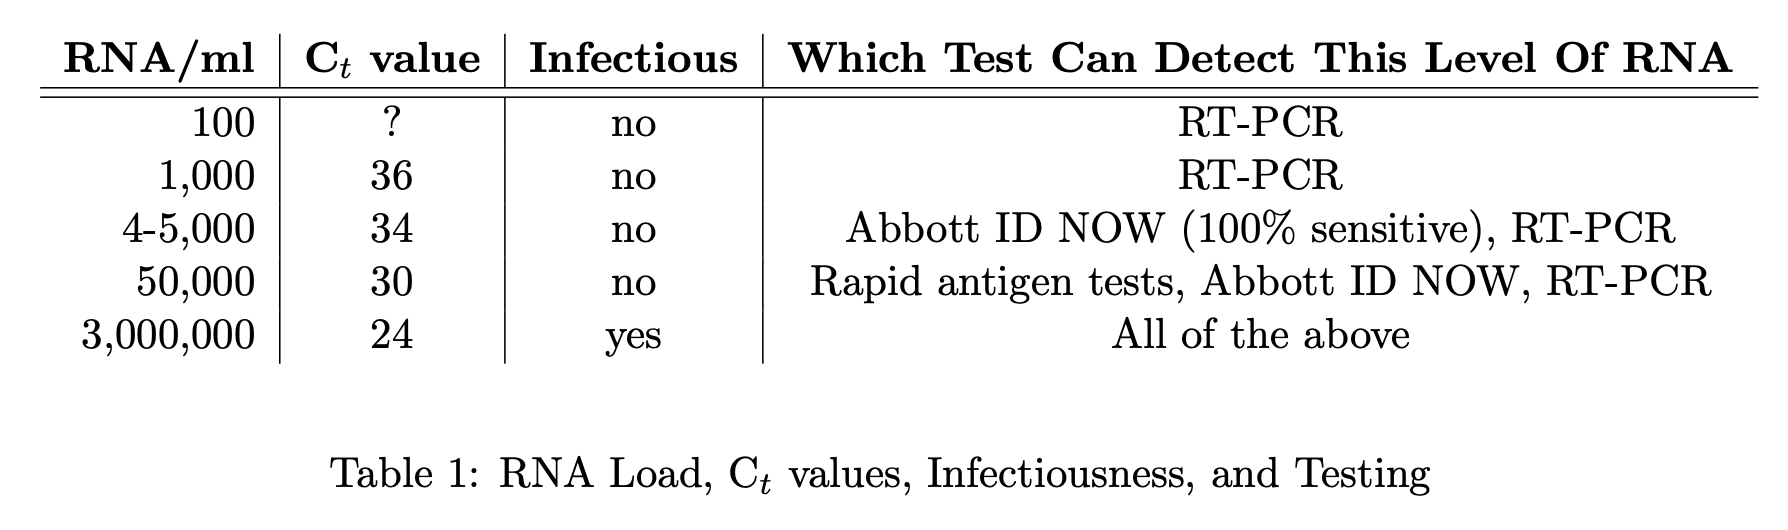
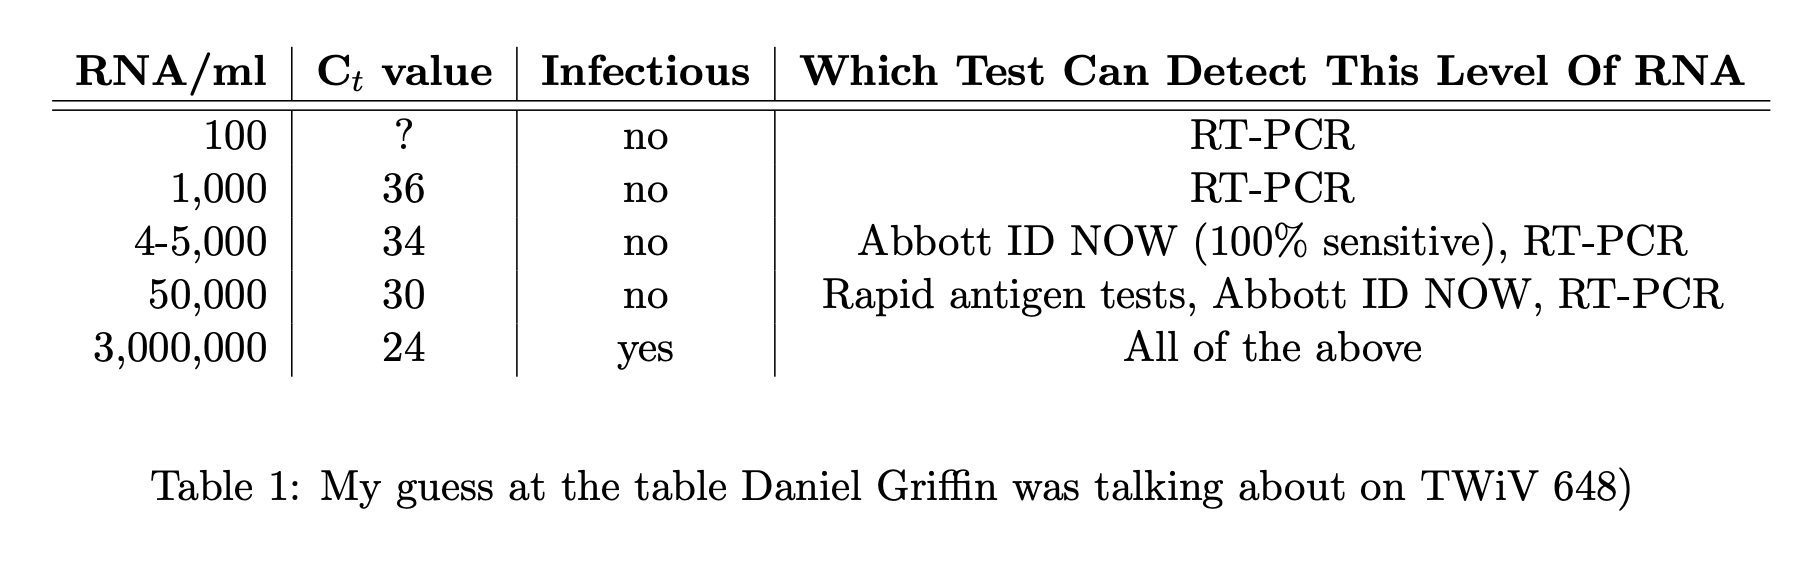
updates

diff --git a/_my_stuff/papers/ct/ct.tex b/_my_stuff/papers/ct/ct.tex
@@ -64,7 +64,7 @@
       3,000,000 & 24 & yes & All of the above
     \end{tabular}
   \end{center}
- \caption{RNA Load, $\text{C}_t$ values, Infectiousness, and Testing}
+ \caption{My guess at the table Daniel Griffin was talking about on TWiV 648)}
 \end{table}
 
 
